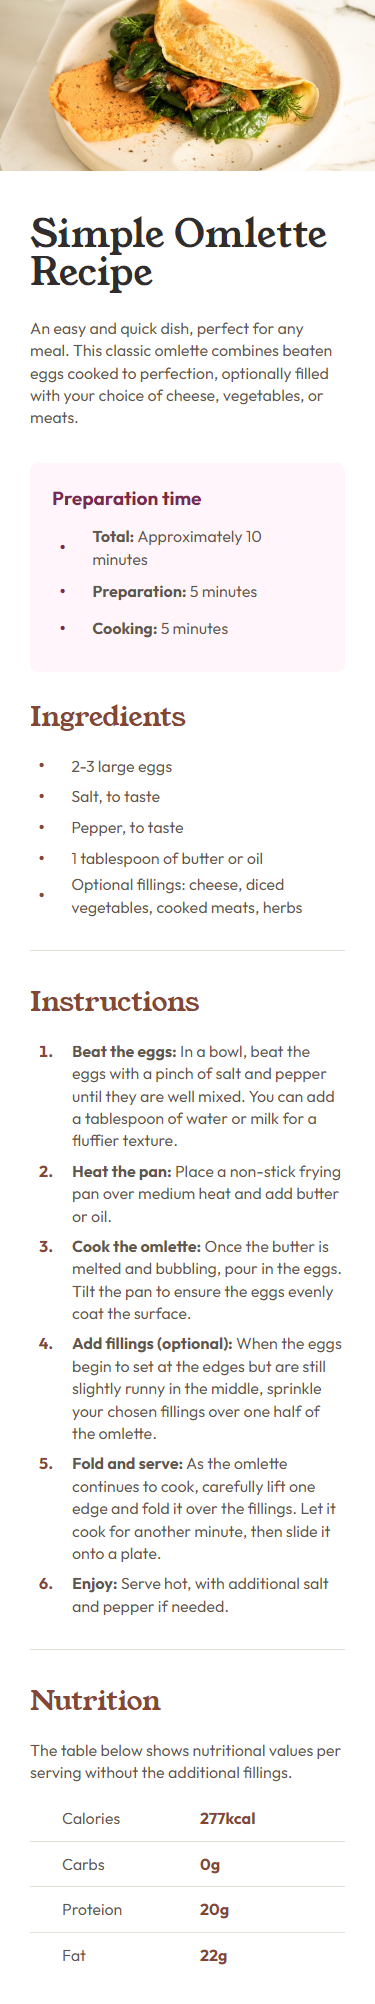
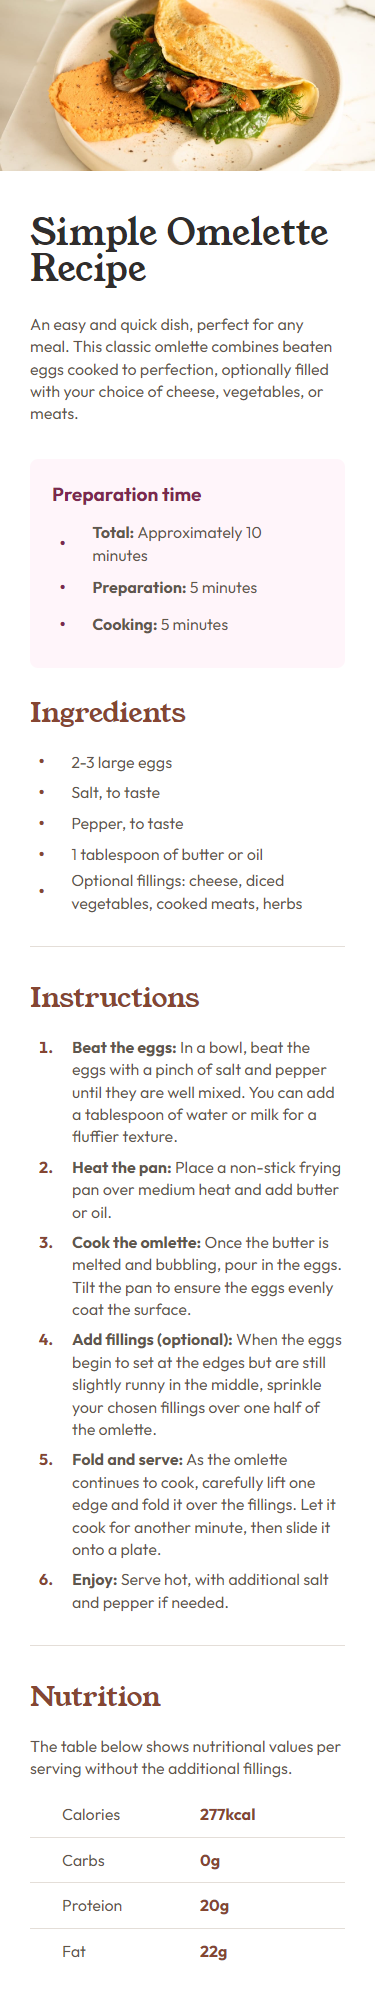
fixed sizes and updated screenshots

diff --git a/style.css b/style.css
@@ -85,7 +85,7 @@ hr {
 .section-about h1 {
    color: var(--dark-charcoal);
    line-height: 1;
-   font-size: 3.8rem;
+   font-size: 3.6rem;
    margin-bottom: 2.6rem;
 }
 
@@ -174,7 +174,7 @@ hr {
 }
 
 /* Making it responsive for even smaller devices */
-@media (max-width: 345px) {
+@media (max-width: 348px) {
    html {
       font-size: 50%;
    }
@@ -200,7 +200,7 @@ hr {
    }
 
    .section-about h1 {
-      font-size: 4.1rem;
+      font-size: 3.8rem;
    }
 
    .section-image {
